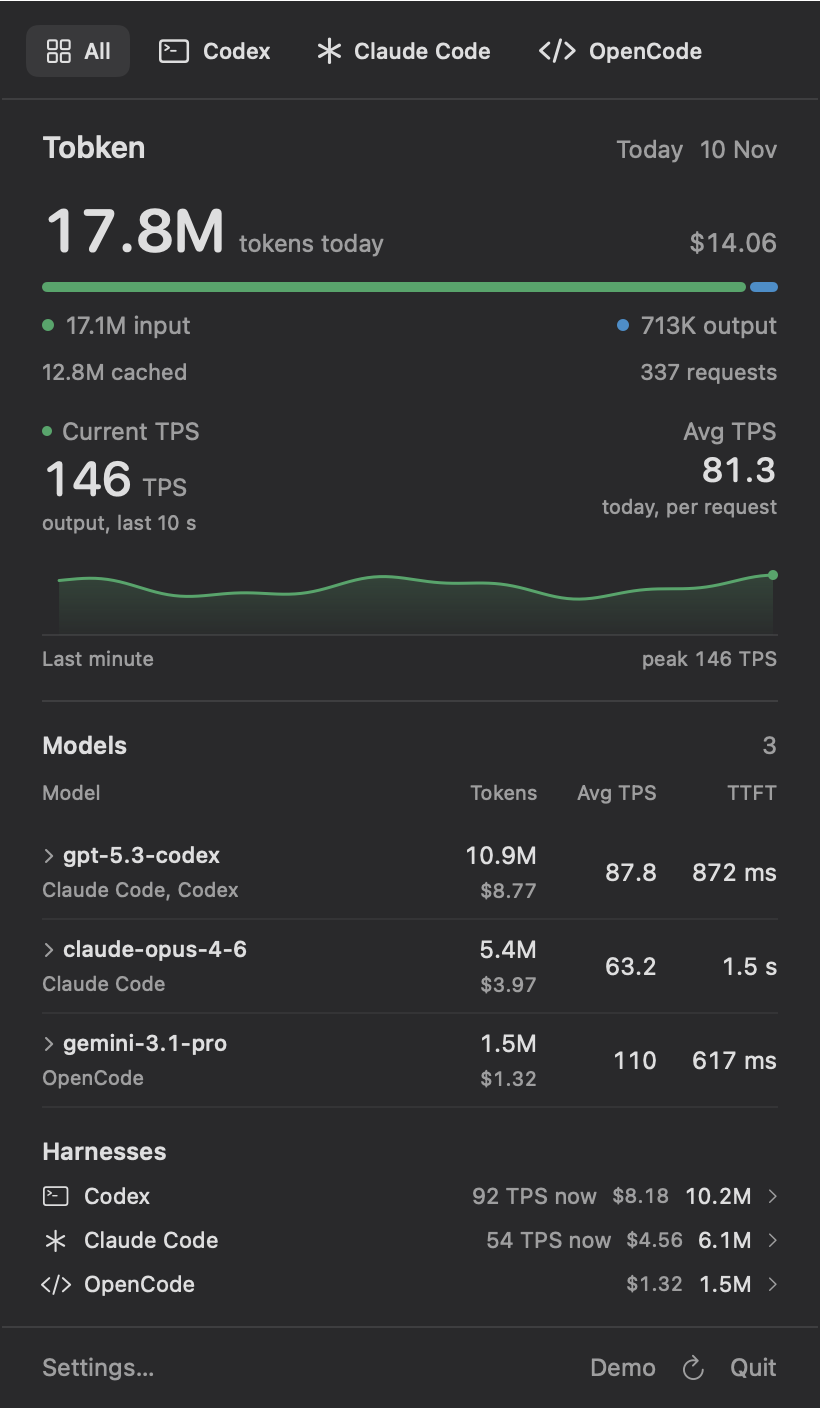
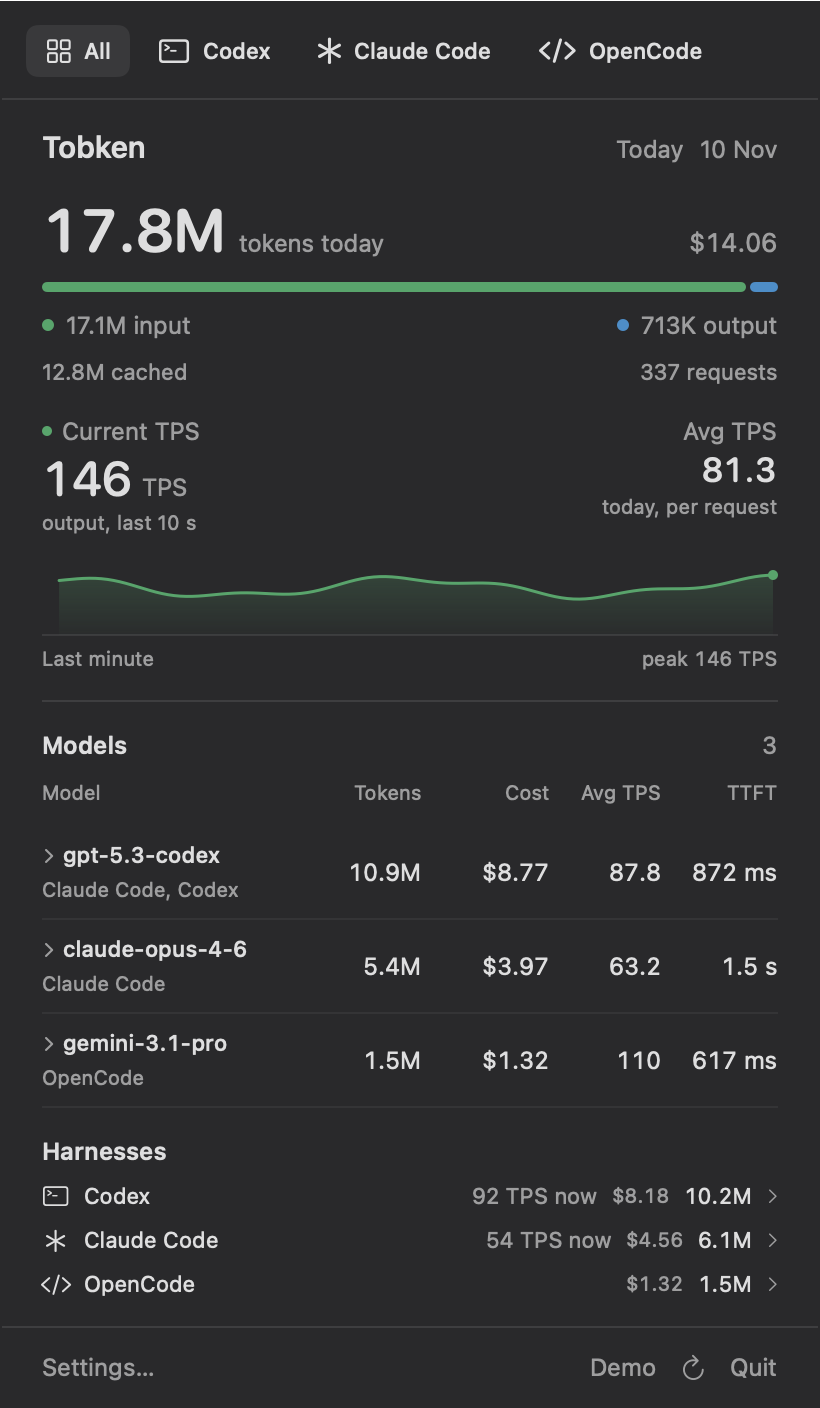
feat(ui): add cost column to the models table
Each model row showed its spend as small secondary text under the
token count, which was easy to miss and did not read as a breakdown
of the total. The table now has its own Cost column, shown when costs
are enabled, whose rows add up to today's total. A model without a
known price shows a dash rather than $0.

The Settings toggle is renamed to "Show estimated costs" since costs
no longer sit only beside token counts, and the README and previews
are updated to match.

diff --git a/Sources/Tobken/MenuView.swift b/Sources/Tobken/MenuView.swift
@@ -9,9 +9,10 @@ enum MenuMetrics {
     static let smallFont: CGFloat = 11
     static let captionFont: CGFloat = 10
     static let visibleModels = 6
-    static let tokensColumn: CGFloat = 64
-    static let averageColumn: CGFloat = 60
-    static let ttftColumn: CGFloat = 60
+    static let tokensColumn: CGFloat = 54
+    static let costColumn: CGFloat = 64
+    static let averageColumn: CGFloat = 56
+    static let ttftColumn: CGFloat = 58
     /// Room left for the menu bar and the popover's own chrome when capping the scrolling body.
     static let screenMargin: CGFloat = 160
 }
@@ -253,6 +254,10 @@ struct MenuView: View {
                 HStack(spacing: 0) {
                     Text("Model").frame(maxWidth: .infinity, alignment: .leading)
                     Text("Tokens").frame(width: MenuMetrics.tokensColumn, alignment: .trailing)
+                    if model.showCosts {
+                        Text("Cost").frame(width: MenuMetrics.costColumn, alignment: .trailing)
+                            .help("Estimated spend today at API list prices. The rows add up to today's total.")
+                    }
                     Text("Avg TPS").frame(width: MenuMetrics.averageColumn, alignment: .trailing)
                         .help("Today's output divided by summed request durations, including TTFT.")
                     Text("TTFT").frame(width: MenuMetrics.ttftColumn, alignment: .trailing)
@@ -288,10 +293,14 @@ struct MenuView: View {
                         Text(([row.sources.map(\.displayName).joined(separator: ", ")] + [row.provider].compactMap { $0 }).joined(separator: " · "))
                             .font(.system(size: MenuMetrics.captionFont)).foregroundStyle(.secondary).lineLimit(1)
                     }.frame(maxWidth: .infinity, alignment: .leading)
-                    VStack(alignment: .trailing, spacing: 4) {
-                        Text(MetricFormat.tokens(row.metrics.totals.total))
-                        costText(row.metrics.cost, requests: row.metrics.totals.requests, size: MenuMetrics.captionFont)
-                    }.frame(width: MenuMetrics.tokensColumn, alignment: .trailing)
+                    Text(MetricFormat.tokens(row.metrics.totals.total)).frame(width: MenuMetrics.tokensColumn, alignment: .trailing)
+                    if model.showCosts {
+                        Text(MetricFormat.cost(row.metrics.cost, requests: row.metrics.totals.requests) ?? "—")
+                            .frame(width: MenuMetrics.costColumn, alignment: .trailing)
+                            .help(MetricFormat.cost(row.metrics.cost, requests: row.metrics.totals.requests) == nil
+                                  ? "No known price for this model; it is left out of today's total, never counted as $0."
+                                  : MetricFormat.costHelp(row.metrics.cost, requests: row.metrics.totals.requests))
+                    }
                     Text(MetricFormat.rate(row.metrics.averageTPS)).frame(width: MenuMetrics.averageColumn, alignment: .trailing)
                         .help("Average TPS today, including TTFT. Expand for current TPS and sample counts.")
                     Text(MetricFormat.latency(row.metrics.ttftP50)).frame(width: MenuMetrics.ttftColumn, alignment: .trailing)

diff --git a/Sources/Tobken/SettingsView.swift b/Sources/Tobken/SettingsView.swift
@@ -26,7 +26,7 @@ struct SettingsView: View {
                     .font(.caption).foregroundStyle(.secondary)
             }
             Section {
-                Toggle("Show costs beside token counts", isOn: $model.showCosts)
+                Toggle("Show estimated costs", isOn: $model.showCosts)
                 if !model.isDemo {
                     Toggle("Update prices daily", isOn: $model.updatesPrices)
                         .onChange(of: model.updatesPrices) { _, enabled in if enabled { model.checkPrices() } }

diff --git a/README.md b/README.md
@@ -73,13 +73,14 @@ The UI smoke test requires an active macOS desktop session and uses demo data.
   Some harnesses do not record it; `—` means unavailable. Expand a model for
   current TPS, sample counts, response duration p50, and TTFT p95 (20+ samples).
   Percentiles use the collector's logarithmic latency histogram.
-- **Costs** (smaller text beside today's total, model rows and harness rows):
+- **Costs** (beside today's total, a Cost column in the model table that adds
+  up to it, and harness rows):
   estimated spend at API list prices from each request's token usage, priced
   by model with separate rates for uncached input, cache reads and writes, and
   output. Subscription plans are billed differently, so treat this as the API
   equivalent. A request whose model has no known price is left out: "≥ $12.35"
-  means some requests are missing, and nothing is shown when none could be
-  priced (unknown is never $0). Prices come from the table bundled with the
+  means some requests are missing, and nothing (`—` in the model table) is
+  shown when none could be priced (unknown is never $0). Prices come from the table bundled with the
   app; once a day Tobken downloads the public
   [price table](https://github.com/zoefix/agent-speed/blob/main/spec/assets/prices.json)
   if a newer one exists. That is a plain HTTPS GET with a generic user agent;
